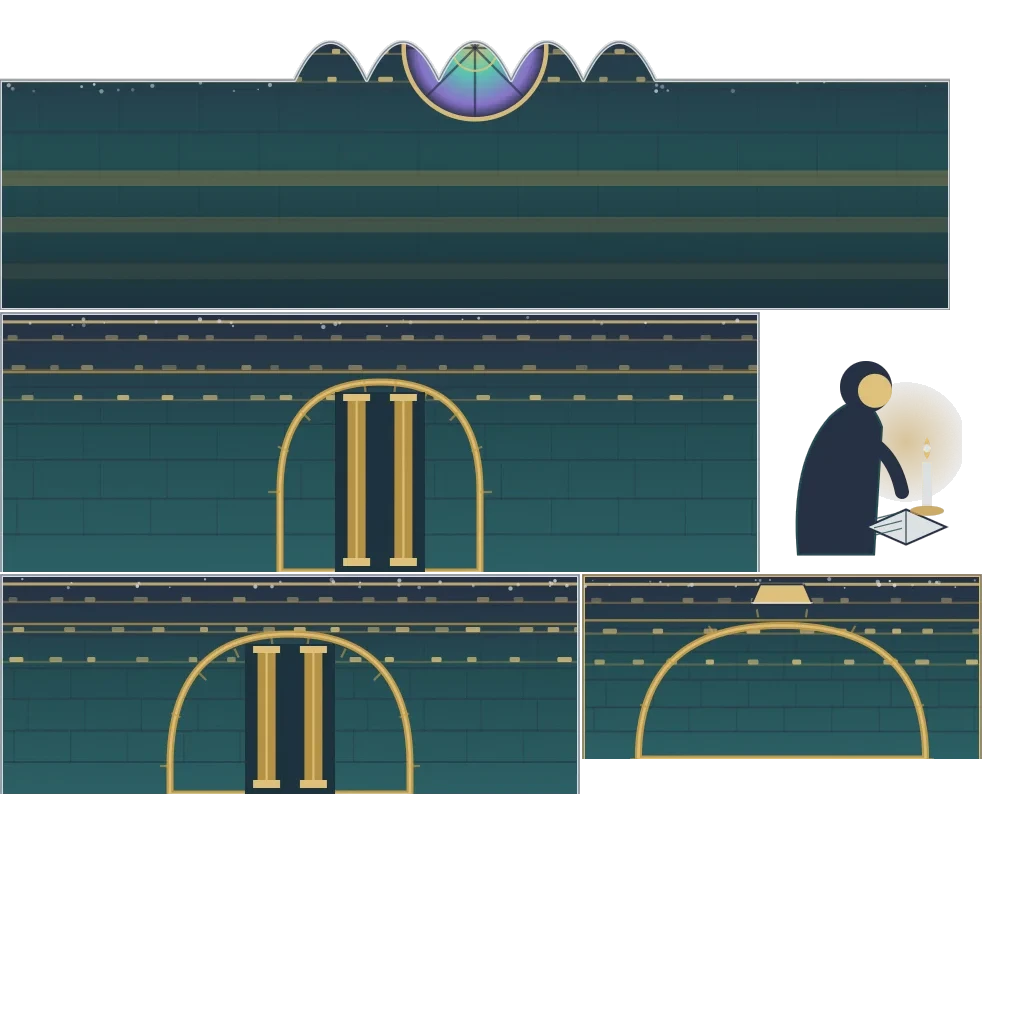
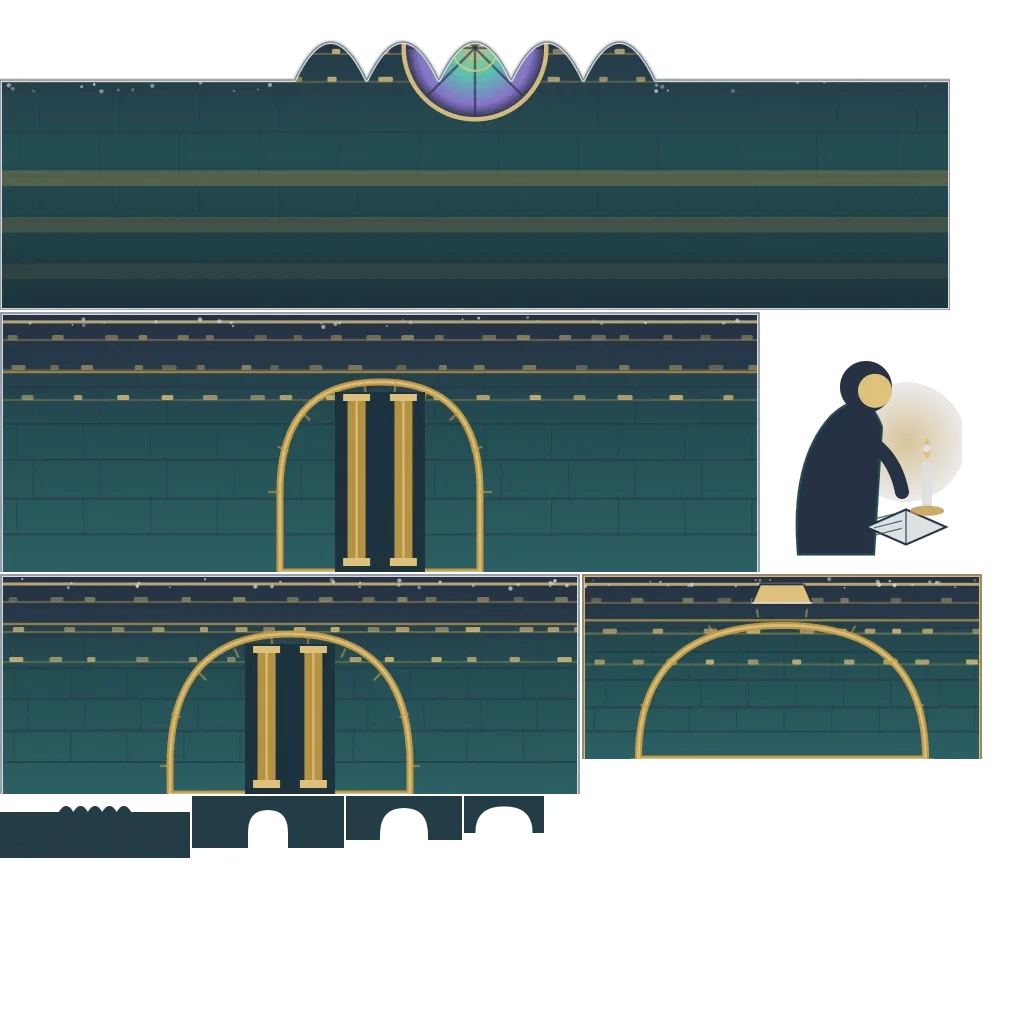
feat(labs/storybook): oanave T4 print-backs - shaded paper, never mirrored art
The rank sheets' reverses now obey the house T4 law (pack §4e 'Back
faces: T4 print-back tint (no mirrored art)'): four tiny back sprites
(flat shaded paper carrying the SAME die alpha - punched arch, dome
scallop) bake onto the nave atlas page, and the merged mesh gains explicit
back-face quads sampling them. Material goes DoubleSide -> FrontSide with
winding made deliberate: left-hand faces flip their index winding so every
front quad faces the painted/valley side at rest, every back quad the
reverse - mid-turn glances now read paper, not backwards gilt. Still one
geometry, one material, one draw per rank; a missing back sprite falls
back to the face art (the old DoubleSide read).

Call sheet + art-callsheet construction rule extended with <id>-back.
Suite 1209 green, tsc clean, both pack benches green.

Changed region(s): [[0.0, 0.75, 0.5312, 0.8438]]

diff --git a/components/labs/storybook/book/popup-oanave-layer.tsx b/components/labs/storybook/book/popup-oanave-layer.tsx
@@ -51,39 +51,60 @@ export function OanavePopupLayer({
   const shadowRef = useRef<THREE.Mesh>(null)
   // Atlas-aware: the whole nave + clerk share ONE 1024 page (nave-atlas-s7);
   // the sprite rect remaps this rank's unit-square uv table into its region.
+  // The T4 print-back sprite (flat shaded paper carrying the same die alpha,
+  // never mirrored art) lives on the SAME page, so the back-face quads stay
+  // inside the one texture upload — zero extra draws.
   const { texture: faceArt, rect } = useArtSprite(layer.id)
+  const { rect: backRect } = useArtSprite(`${layer.id}-back`)
   const tint = useMemo(() => kraftTints(layer.id), [layer.id])
 
-  // ONE merged geometry: host pair + a relief pair per stratum. UVs and the
-  // index are static (the patch list is constant for a geometry); positions
-  // are rewritten each frame from the solver.
+  // ONE merged geometry: every die patch twice — a FRONT quad wound toward
+  // the painted side (left-hand faces flip their index winding so every
+  // front quad faces the valley/camera side at rest) and a BACK quad wound
+  // the other way sampling the print-back tint. UVs and the index are
+  // static (the patch list is pose-independent); positions are rewritten
+  // each frame from the solver.
   const quadCount = oanavePatchCount(layer)
   const geometry = useMemo(() => {
     const g = new THREE.BufferGeometry()
-    const positions = new THREE.BufferAttribute(new Float32Array(quadCount * 12), 3)
+    const positions = new THREE.BufferAttribute(new Float32Array(quadCount * 24), 3)
     positions.setUsage(THREE.DynamicDrawUsage)
     g.setAttribute('position', positions)
-    const uvs = new Float32Array(quadCount * 8)
     const patches = oanavePatches(layer, Math.PI, 0)
+    const frontUvs = new Float32Array(quadCount * 8)
+    const backUvs = new Float32Array(quadCount * 8)
     patches.forEach((p, k) => {
       const [u0, v0, u1, v1] = p.uv
       // Quad corner order [inner@v0, outer@v0, outer@v1, inner@v1].
-      uvs.set([u0, v0, u1, v0, u1, v1, u0, v1], k * 8)
+      frontUvs.set([u0, v0, u1, v0, u1, v1, u0, v1], k * 8)
+      backUvs.set([u0, v0, u1, v0, u1, v1, u0, v1], k * 8)
     })
-    g.setAttribute('uv', new THREE.BufferAttribute(applyUvRect(uvs, rect), 2))
-    const index = new Uint16Array(quadCount * 6)
-    for (let k = 0; k < quadCount; k++)
-      index.set([k * 4, k * 4 + 1, k * 4 + 2, k * 4, k * 4 + 2, k * 4 + 3], k * 6)
+    const uvs = new Float32Array(quadCount * 16)
+    uvs.set(applyUvRect(frontUvs, rect), 0)
+    // A missing back sprite falls back to the face art (mirrored, the old
+    // DoubleSide read) rather than sampling a wrong region.
+    uvs.set(applyUvRect(backUvs, backRect ?? rect), quadCount * 8)
+    g.setAttribute('uv', new THREE.BufferAttribute(uvs, 2))
+    const index = new Uint16Array(quadCount * 12)
+    patches.forEach((p, k) => {
+      const flip = p.face === 'hostL' || p.face === 'reliefL'
+      const f = k * 4
+      const b = (quadCount + k) * 4
+      index.set(flip ? [f, f + 2, f + 1, f, f + 3, f + 2] : [f, f + 1, f + 2, f, f + 2, f + 3], k * 6)
+      index.set(flip ? [b, b + 1, b + 2, b, b + 2, b + 3] : [b, b + 2, b + 1, b, b + 3, b + 2], (quadCount + k) * 6)
+    })
     g.setIndex(new THREE.BufferAttribute(index, 1))
     return g
-    // eslint-disable-next-line react-hooks/exhaustive-deps -- geometry is sized by the (static) content entry + its atlas rect
-  }, [layer.id, quadCount, rect])
+    // eslint-disable-next-line react-hooks/exhaustive-deps -- geometry is sized by the (static) content entry + its atlas rects
+  }, [layer.id, quadCount, rect, backRect])
 
   const paperTexture = sharedPaperTexture()
+  // FrontSide: the geometry carries explicit front AND back quads (T4 —
+  // the reverse of the sheet is shaded paper, not mirrored art).
   const material = useMemo(
     () =>
       new THREE.MeshBasicMaterial({
-        side: THREE.DoubleSide,
+        side: THREE.FrontSide,
         color: '#ffffff',
         transparent: true,
         alphaTest: 0.1,
@@ -144,11 +165,15 @@ export function OanavePopupLayer({
     const patches = oanavePatches(layer, thetaL, thetaR)
     const attr = geometry.getAttribute('position') as THREE.BufferAttribute
     const arr = attr.array as Float32Array
+    const backBase = patches.length * 12
     patches.forEach((p, k) => {
       for (let c = 0; c < 4; c++) {
         arr[k * 12 + c * 3] = p.quad[c][0]
         arr[k * 12 + c * 3 + 1] = p.quad[c][1]
         arr[k * 12 + c * 3 + 2] = p.quad[c][2]
+        arr[backBase + k * 12 + c * 3] = p.quad[c][0]
+        arr[backBase + k * 12 + c * 3 + 1] = p.quad[c][1]
+        arr[backBase + k * 12 + c * 3 + 2] = p.quad[c][2]
       }
     })
     attr.needsUpdate = true

diff --git a/__tests__/labs/storybook/art-callsheet.test.ts b/__tests__/labs/storybook/art-callsheet.test.ts
@@ -108,6 +108,9 @@ function knownGoodIds(): ReadonlySet<string> {
     if (layer.mech === 'depthvista') {
       for (const wing of layer.wings) ids.add(`${layer.id}-${wing.key}`)
     }
+    // The oanave rank (popup-oanave-layer.tsx): the face art plus the T4
+    // print-back tint sprite (`<id>-back`) its back-face quads sample.
+    if (layer.mech === 'oanave') ids.add(`${layer.id}-back`)
     // popup-dissolve-layer.tsx: the two crossfade paintings (dunes up-face,
     // gold under-face) sliced across the venetian slats.
     if (layer.mech === 'dissolve') {

diff --git a/docs/superpowers/art-call-sheet.md b/docs/superpowers/art-call-sheet.md
@@ -303,10 +303,10 @@ treasury + spire/vines/door/banner, fringe) leaves those webp files orphaned.*
 
 | Layer id | Asset key(s) | Piece & story | Aspect (W:H) | Map | Status |
 |---|---|---|---|---|---|
-| `ch6-nave-a` | `ch6-nave-a` | The APSE rank: scalloped dome crown silhouette (die-cut alpha), aurora-rose window (radial mint→amethyst→gilt core) centered in the visible band y 0.43–0.62, flat painted treasure tiers below (mostly hidden — cheap fills), frost dusting on the crown edge | ≈3.06:1 landscape (1.90 × 0.62) | STAND | placeholder |
-| `ch6-nave-b` | `ch6-nave-b` | Nave rank B: teal vault masonry, gilt arch rim ringing the aperture, coin-shelf strata lines in the wings' top band; relief = arch molding + column pair (paint continuous across the cuts) | ≈2.92:1 landscape (1.52 × 0.52) | STAND | placeholder |
-| `ch6-nave-c` | `ch6-nave-c` | Nave rank C: same grammar, one bay nearer | ≈2.64:1 landscape (1.16 × 0.44) | STAND | placeholder |
-| `ch6-nave-d` | `ch6-nave-d` | Rank D, the portal MOUTH (the depth-band hero): gilt arch rim, keystone step relief (order-2), T1 GOLD edge ribbon on the rim | ≈2.17:1 landscape (0.78 × 0.36) | STAND | placeholder |
+| `ch6-nave-a` | `ch6-nave-a`, `ch6-nave-a-back` | The APSE rank: scalloped dome crown silhouette (die-cut alpha), aurora-rose window (radial mint→amethyst→gilt core) centered in the visible band y 0.43–0.62, flat painted treasure tiers below (mostly hidden — cheap fills), frost dusting on the crown edge. `-back` = the T4 print-back tint carrying the same die alpha | ≈3.06:1 landscape (1.90 × 0.62) | STAND | **art** (procedural) |
+| `ch6-nave-b` | `ch6-nave-b`, `ch6-nave-b-back` | Nave rank B: teal vault masonry, gilt arch rim + voussoirs ringing the aperture, coin-shelf strata lines in the wings' top band; relief = arch molding + column pair (paint continuous across the cuts — the strata are cut FROM this sheet) | ≈2.92:1 landscape (1.52 × 0.52) | STAND | **art** (procedural) |
+| `ch6-nave-c` | `ch6-nave-c`, `ch6-nave-c-back` | Nave rank C: same grammar, one bay nearer | ≈2.64:1 landscape (1.16 × 0.44) | STAND | **art** (procedural) |
+| `ch6-nave-d` | `ch6-nave-d`, `ch6-nave-d-back` | Rank D, the portal MOUTH (the depth-band hero): gilt arch rim + voussoirs, keystone step relief (order-2, gilt painted exactly over its stratum band), T1 GOLD edge ribbon | ≈2.17:1 landscape (0.78 × 0.36) | STAND | **art** (procedural) |
 | `ch6-clerk` | `ch6-clerk` | The intimate counterweight: a kneeling clerk over an open ledger, one candle — midnight coat, candle-gold face; painted both sides; gaze 3/4 toward the coffer | ≈0.8:1 portrait (0.16 × 0.20) | STAND | placeholder |
 | `ch6-strongbox` | `ch6-strongbox-front`, `ch6-strongbox-back`, `ch6-strongbox-side`, `ch6-strongbox-top` | Banker's strongbox — now the waystation the painted gold path splits around (R7: height frozen ≤ 0.12) | side ≈1.09:1 · front/back ≈1.82:1 · top ≈1.67:1 | FACE / TOPDOWN | placeholder |
 | `ch6-crest` | `ch6-crest` | Bank's griffin crest, standing ON the strongbox lid (rider recursion) | ≈1.13:1 near-square | STAND | placeholder |
